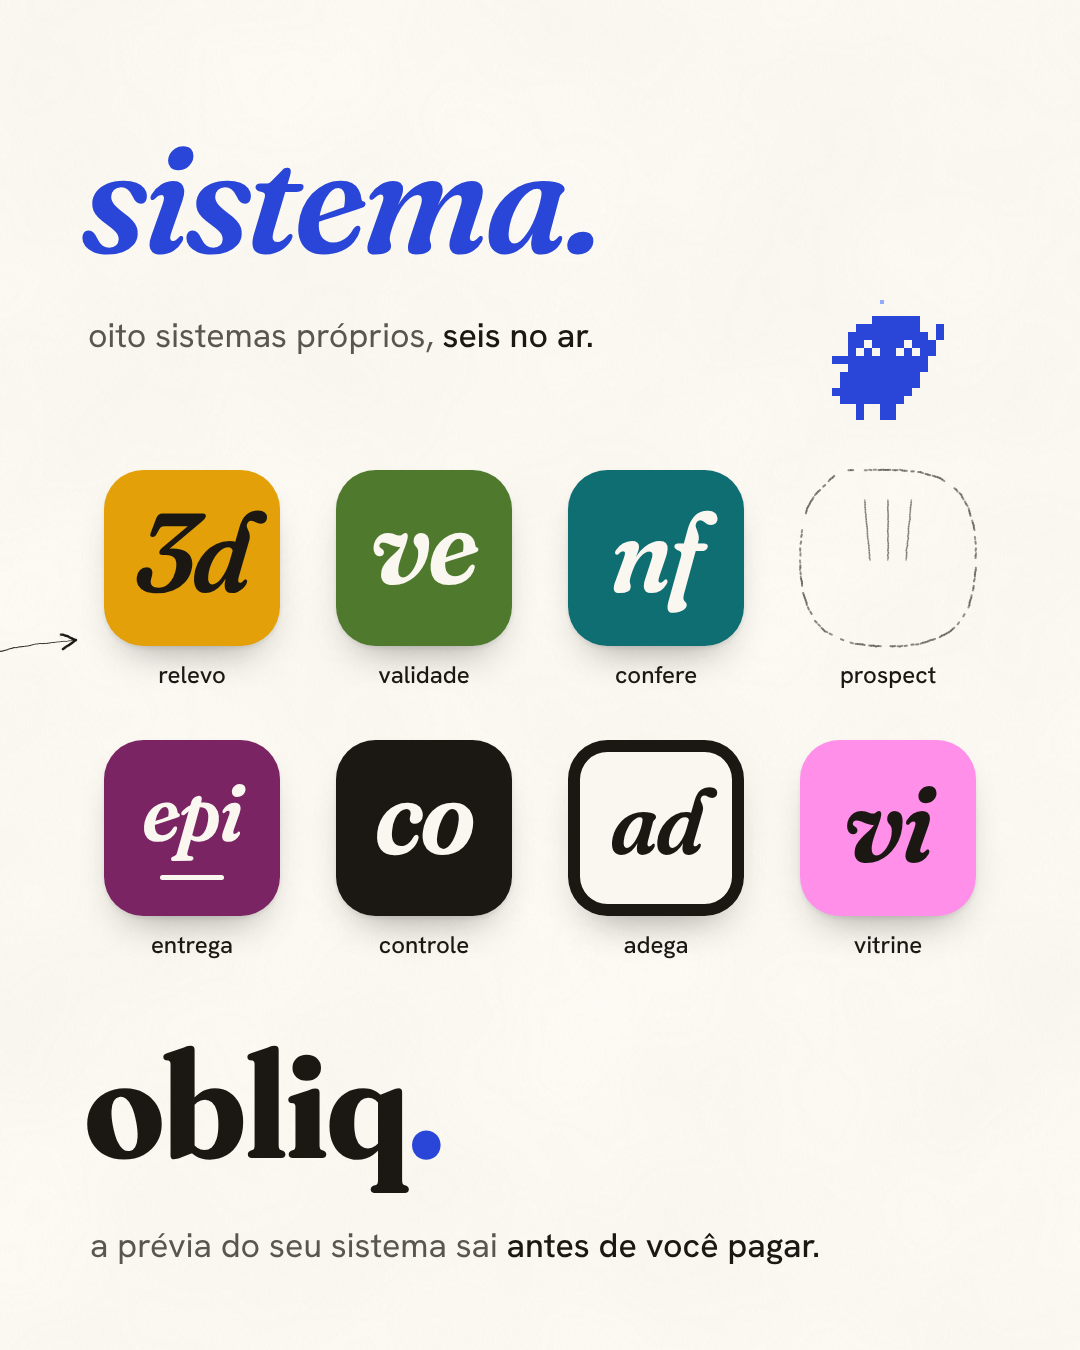
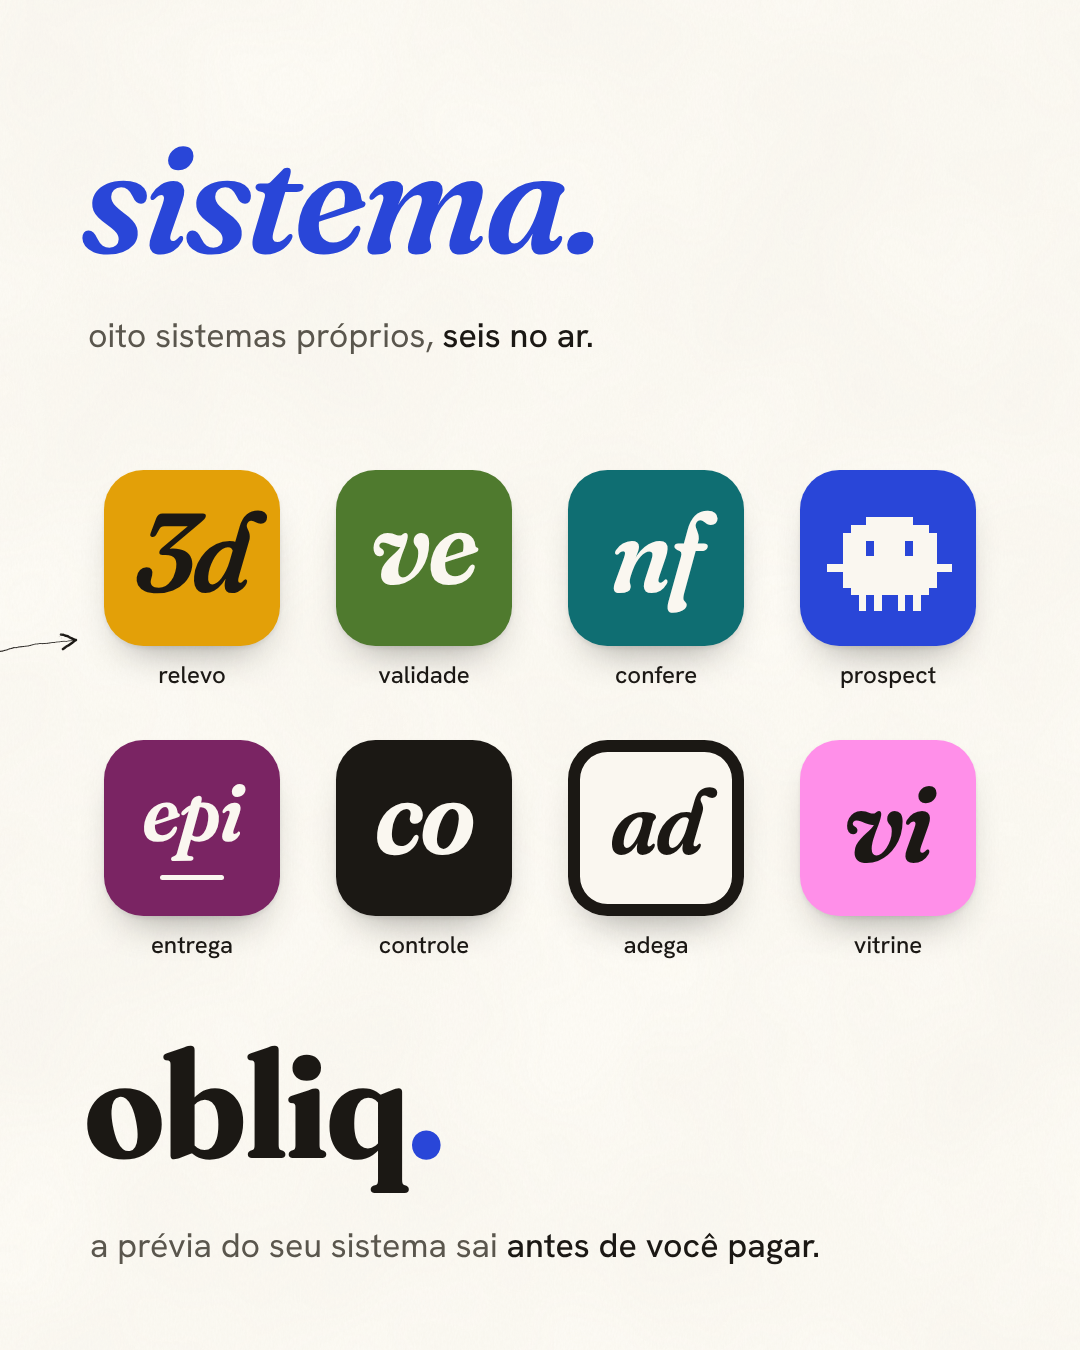
Fixados: o ícone do Prospect é o próprio Ponto
O Ponto em papel sobre o azul da casa, na mesma lógica da família de
ícones; sai o espaço vazio de onde ele pulava.

Claude-Session: https://claude.ai/code/session_01STHmmjn19Djo7ouhFXERq4

Changed region(s): [[0.7333, 0.3422, 0.9167, 0.4978], [0.7639, 0.2178, 0.8861, 0.3111]]

diff --git a/fixados-obliq/fixados.html b/fixados-obliq/fixados.html
@@ -9,8 +9,8 @@
   que contam uma história da esquerda para a direita: "o caderninho | vira | sistema."
     1. o caderninho do negócio, a lápis, e o Ponto (ainda em tinta) olhando para ele;
     2. o Ponto, já azul, no notebook, com pedaços de sistema saindo a lápis;
-    3. os projetos da casa como ícones de celular (a família da guideline §2b), e o Ponto pulando
-       do espaço do Prospect.
+    3. os projetos da casa como ícones de celular (a família da guideline §2b); o do Prospect é o
+       próprio Ponto, em papel sobre o azul da casa.
   Setas a lápis atravessam as emendas e ligam um post no outro.
 
   No grade do perfil o Instagram mostra cada post em 3:4, cortando 34 px de cada lado: nenhum texto
@@ -57,7 +57,10 @@ canvas#lapis { left: 0; top: 0; width: 3240px; height: 1350px; pointer-events: n
 .ic.epi::after { content: ''; position: absolute; left: 32%; right: 32%; bottom: 36px; height: 5px; border-radius: 3px; background: #FAF7F0; }
 .ic.adega { background: #FAF7F0; box-shadow: inset 0 0 0 12px #1B1814, 0 22px 40px -22px rgba(27,24,20,.45); }
 .ic.adega span { font-size: 92px; }
-.ic.vazio { background: transparent; box-shadow: none; }
+/* o Prospect: o Ponto é o ponto azul do "obliq." que criou perna; no ícone ele fica em papel sobre o
+   azul da casa (a tinta do Prospect), e os olhos, que são furos, deixam o azul aparecer */
+.ic.prospect .ponto-fixo { transform: translate(4px, -2px); }
+.ponto-papel .pt-b, .ponto-papel .pt-s, .ponto-papel .pt-k, .ponto-papel .pt-g, .ponto-papel .pt-l { fill: #FAF7F0; }
 .rotulo { font: 500 24px/1 'Hanken Grotesk'; color: var(--tinta); text-align: center; width: 176px; }
 
 /* posições */
@@ -69,7 +72,6 @@ canvas#lapis { left: 0; top: 0; width: 3240px; height: 1350px; pointer-events: n
 #s3 { left: 2248px; top: 312px; width: 900px; }
 #ponto1 { left: 600px; top: 1000px; }
 #ponto2 { left: 1380px; top: 700px; }
-#ponto3 { left: 2944px; top: 300px; }
 #nota { left: 1170px; top: 1150px; }
 #marca { left: 2244px; top: 1030px; font-family: 'Fraunces', serif; font-weight: 700; font-variation-settings: var(--fraunces); letter-spacing: -0.015em; font-size: 150px; line-height: 1; }
 #marca i { font-style: normal; color: var(--azul); }
@@ -96,11 +98,11 @@ canvas#lapis { left: 0; top: 0; width: 3240px; height: 1350px; pointer-events: n
   <span class="ponto-fixo" id="ponto2" data-pose="notebook" data-q="18" data-escala="20"></span>
   <p class="nota" id="nota">duas mentes: uma desenha, a outra programa.</p>
 
-  <!-- post 3: a família de ícones; o espaço do Prospect fica vazio, que o Ponto pulou dele -->
+  <!-- post 3: a família de ícones; o do Prospect é o próprio Ponto, em papel sobre o azul da casa -->
   <div class="ic" style="left:2264px;top:470px;background:#E3A008;color:#1B1814"><span>3d</span></div>
   <div class="ic x" style="left:2496px;top:470px;background:#4F7A2E;color:#FAF7F0"><span>ve</span></div>
   <div class="ic" style="left:2728px;top:470px;background:#0F6E72;color:#FAF7F0"><span>nf</span></div>
-  <div class="ic vazio" id="vazio" style="left:2960px;top:470px"></div>
+  <div class="ic prospect" style="left:2960px;top:470px;background:#2946D8"><span class="ponto-fixo ponto-papel" data-pose="parado" data-q="0" data-escala="7.8"></span></div>
   <div class="ic epi" style="left:2264px;top:740px;background:#7A2463;color:#FAF7F0"><span>epi</span></div>
   <div class="ic x" style="left:2496px;top:740px;background:#1B1814;color:#FAF7F0"><span>co</span></div>
   <div class="ic adega" style="left:2728px;top:740px;color:#1B1814"><span>ad</span></div>
@@ -113,7 +115,6 @@ canvas#lapis { left: 0; top: 0; width: 3240px; height: 1350px; pointer-events: n
   <p class="rotulo" style="left:2496px;top:934px">controle</p>
   <p class="rotulo" style="left:2728px;top:934px">adega</p>
   <p class="rotulo" style="left:2960px;top:934px">vitrine</p>
-  <span class="ponto-fixo" id="ponto3" data-pose="achou" data-q="5" data-escala="8"></span>
 
   <p id="marca">obliq<i>.</i></p>
   <p class="corpo" id="convite">a prévia do seu sistema sai <b>antes de você pagar.</b></p>
@@ -178,12 +179,6 @@ function desenha() {
   // os fiapos saindo do notebook até cada pedaço
   for (const [x, y] of [[1330, 620], [1580, 480], [1790, 530], [1920, 690]]) wob(ctx, [[1620, 700], [(1620 + x) / 2 + 10, (700 + y) / 2 - 16], [x, y]], { w: 1, color: T2, rng: r2, alpha: 0.5, amp: 0.4, gap: 0.4, noDust: true });
 
-  // ---- post 3: o espaço vazio do Prospect, tracejado, de onde o Ponto pulou
-  const x0 = 2960, y0 = 470, S = 176, rr = 40, r3 = stream(SEED * 23 + 5);
-  const borda = [[x0 + rr, y0], [x0 + S - rr, y0], [x0 + S, y0 + rr], [x0 + S, y0 + S - rr], [x0 + S - rr, y0 + S], [x0 + rr, y0 + S], [x0, y0 + S - rr], [x0, y0 + rr], [x0 + rr, y0]];
-  wob(ctx, chaikin(borda, false, 2), { w: 2, color: TINTA2, rng: r3, alpha: 0.75, amp: 0.5, gap: 0.5, noDust: true });
-  // riscos de movimento do pulo
-  for (const dx of [-18, 0, 18]) wob(ctx, [[3048 + dx, 560], [3048 + dx * 1.3, 500]], { w: 1.6, color: TINTA2, rng: r3, alpha: 0.6, amp: 0.3, noDust: true });
 }
 function escreve(ctx, txt, x, y, sz, r) {
   let cx = x;

diff --git a/fixados-obliq/README.md b/fixados-obliq/README.md
@@ -9,8 +9,8 @@ sistema."**
 2. **vira**: o Ponto, já azul, no notebook, com pedaços de sistema saindo a lápis (tabela, chave,
    visto, gráfico) e "duas mentes: uma desenha, a outra programa."
 3. **sistema.**: os projetos da casa como ícones de celular, na família da guideline (§2b): relevo 3d,
-   validade, confere nf, vitrine, entrega epi, controle, adega. O espaço do Prospect está vazio,
-   tracejado: o Ponto pulou dele. Embaixo, "obliq." e "a prévia do seu sistema sai antes de você pagar."
+   validade, confere nf, vitrine, entrega epi, controle, adega, e o do Prospect, que é o próprio Ponto
+   em papel sobre o azul da casa (o ponto do "obliq." que criou perna). Embaixo, "obliq." e "a prévia do seu sistema sai antes de você pagar."
 
 Setas a lápis saem do caderninho, atravessam a emenda até o notebook e dali até os ícones.
 
@@ -41,5 +41,5 @@ Publique na ordem **fixado-3, fixado-2, fixado-1** e fixe os três. O grade most
 ## Antes de publicar
 
 - Conferir se "oito sistemas próprios, seis no ar" continua valendo no dia.
-- O Prospect aparece como espaço vazio (o Ponto pulou dele) porque a guideline não define um ícone
-  mínimo para ele. Se ele ganhar um, é só trocar o espaço pelo ícone.
+- O ícone do Prospect (o Ponto em papel sobre o azul) é novo: a guideline ainda não define um ícone
+  mínimo para ele. Vale registrar na guideline se for adotado.
